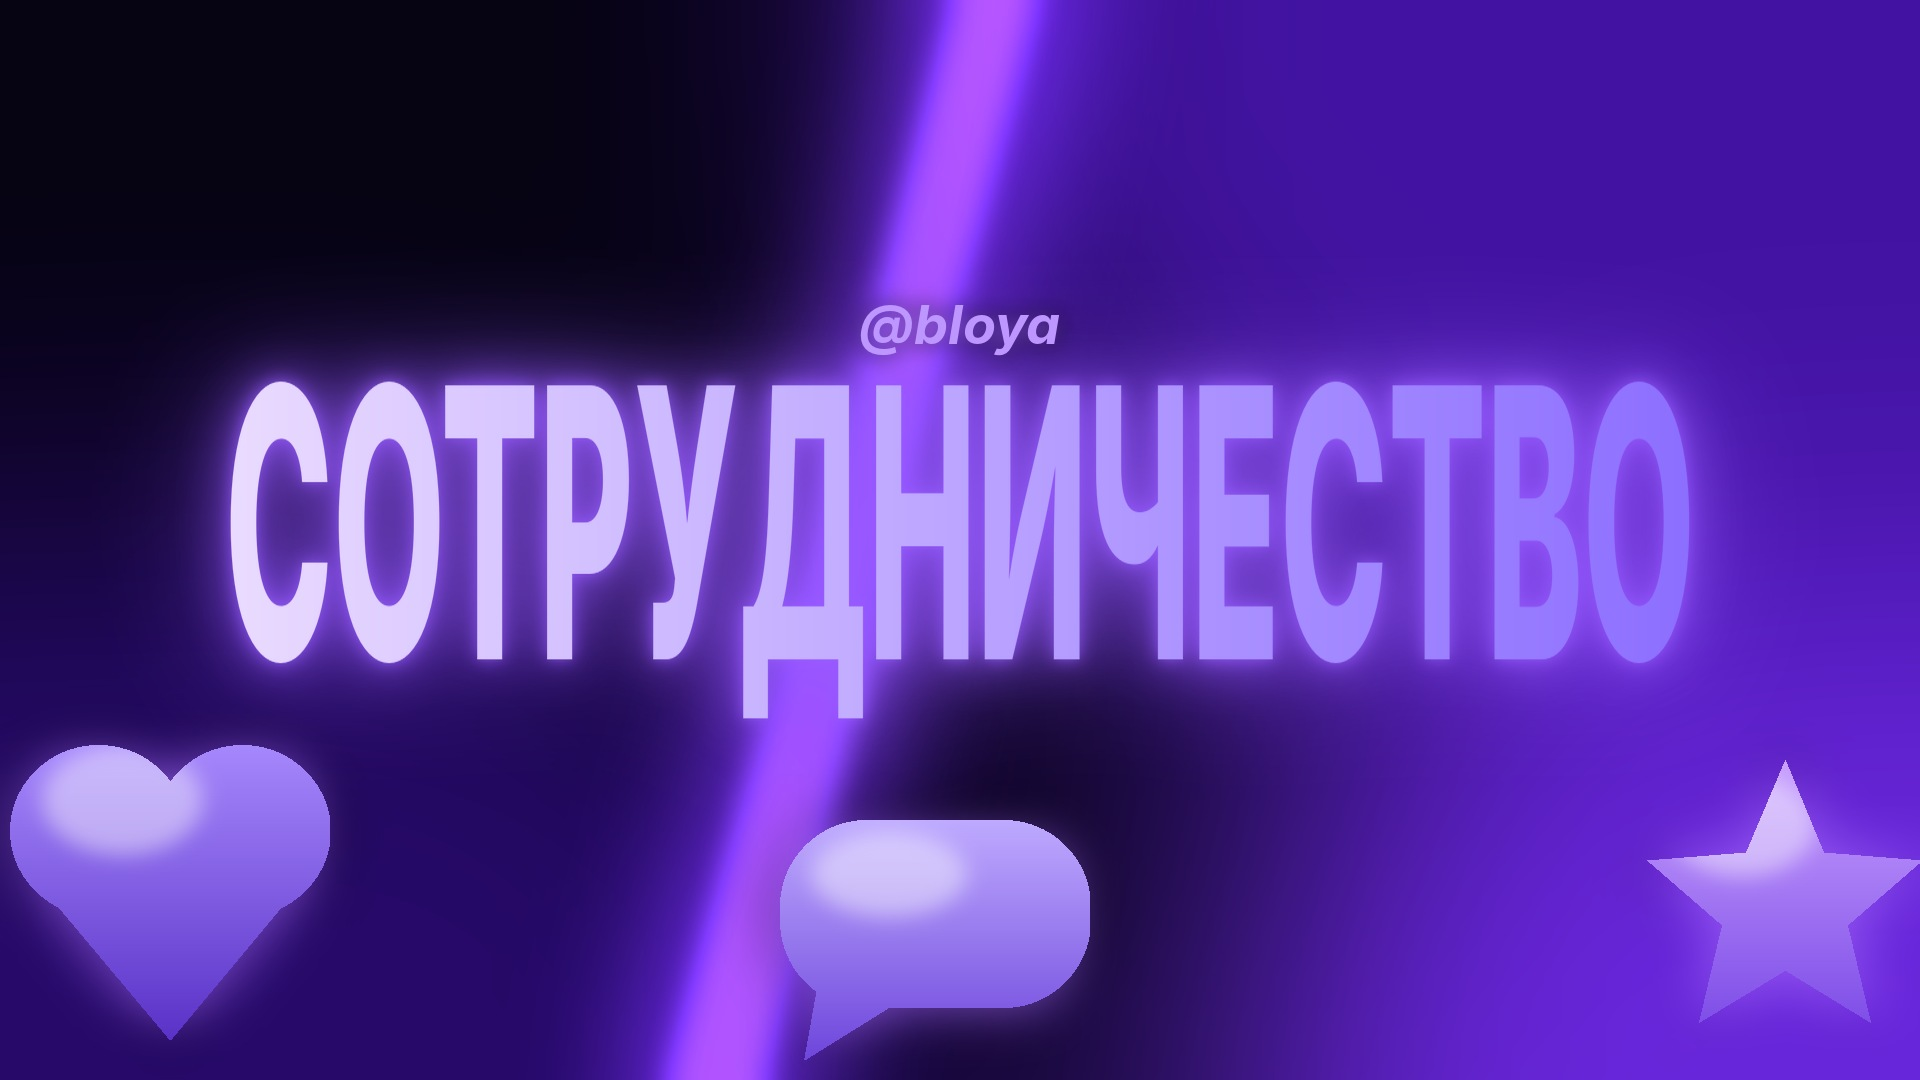
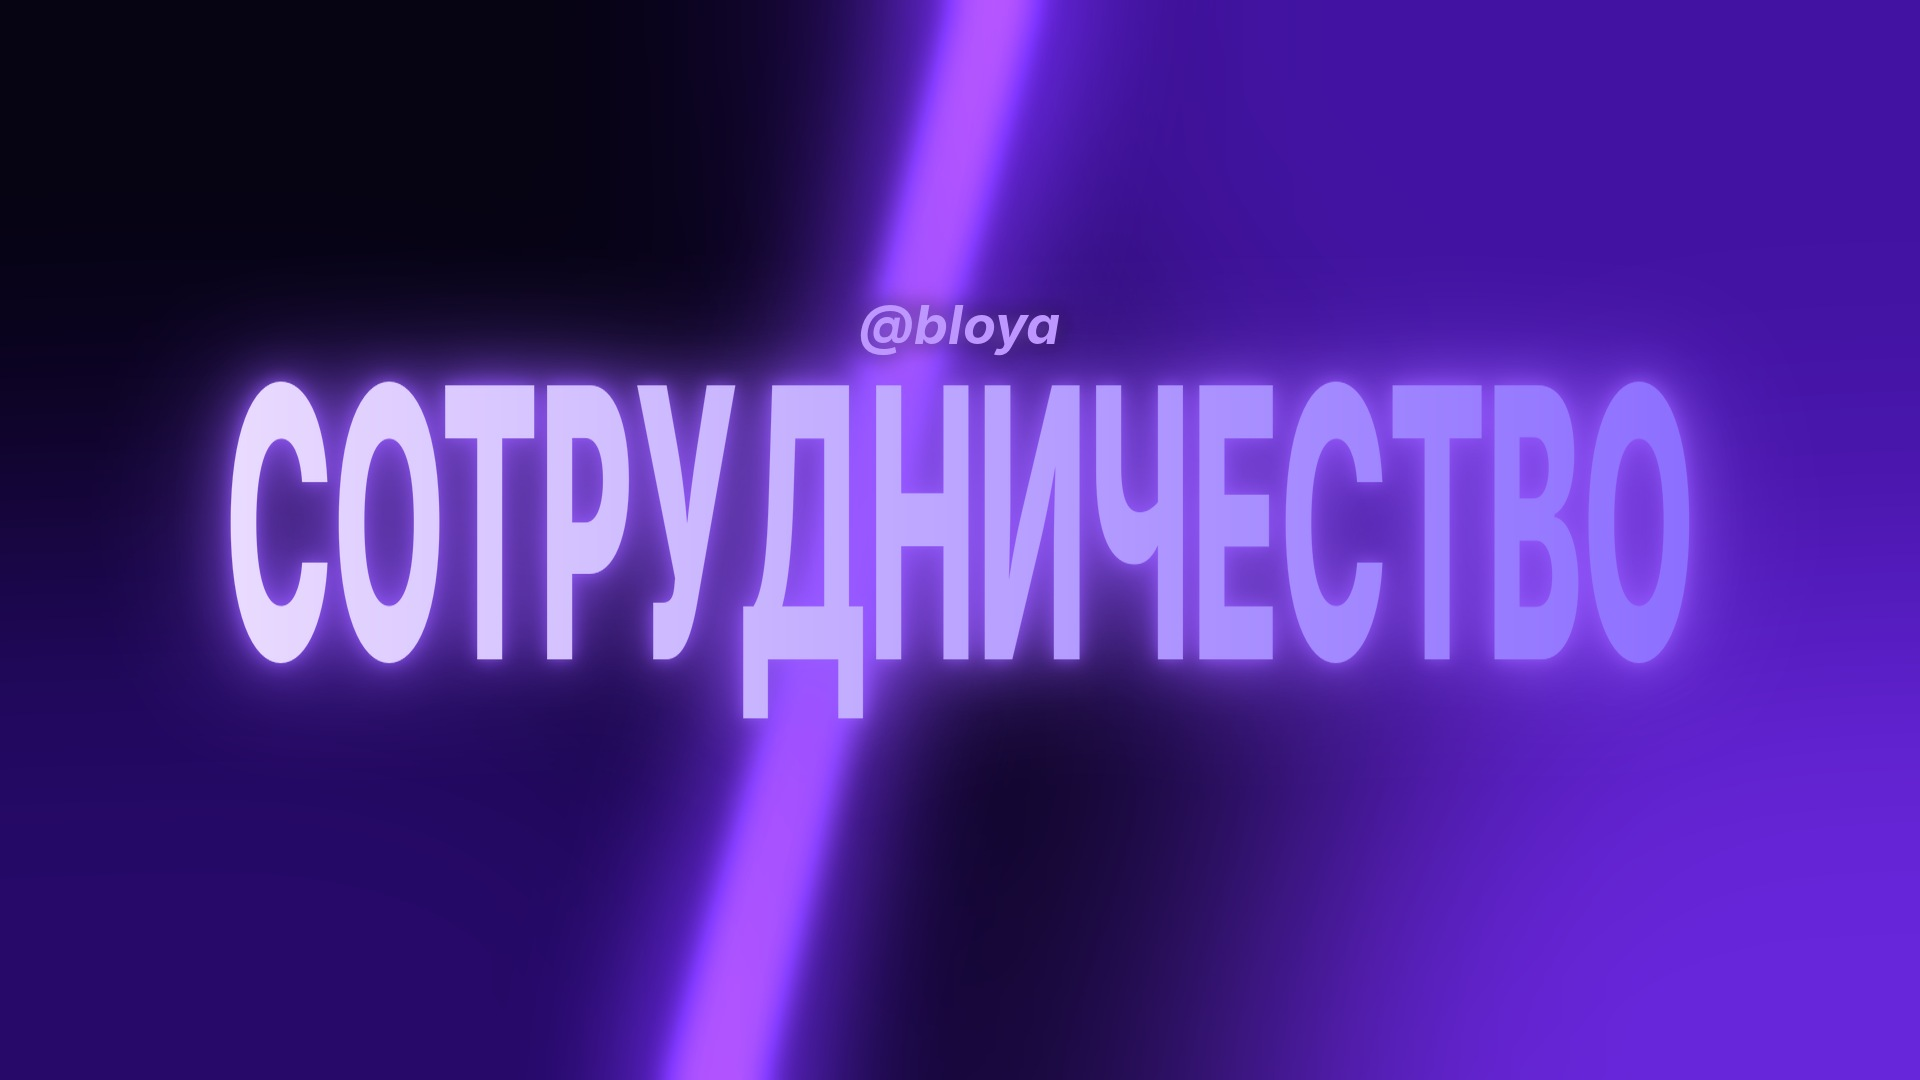
Обложка сотрудничества без иконок (v138)
Claude-Session: https://claude.ai/code/session_01BDd4V1P3cXrgF52suv3y6W

Changed region(s): [[0.0, 0.6722, 0.1875, 0.9778], [0.375, 0.7333, 0.5938, 0.9778], [0.8438, 0.7028, 1.0, 0.9472]]

diff --git a/config.py b/config.py
@@ -62,4 +62,4 @@ MONO_MAX_ROUNDS = 25       # кругов до подсчёта богатств
 MONO_TURN_TIMEOUT = 120    # секунд на ход, потом бот сам бросит кубики
 MONO_IDLE_END = 1200       # секунд без действий людей: игра закрывается
 
-BOT_VERSION = 137          # показывается в /id и в логе при запуске
+BOT_VERSION = 138          # показывается в /id и в логе при запуске
